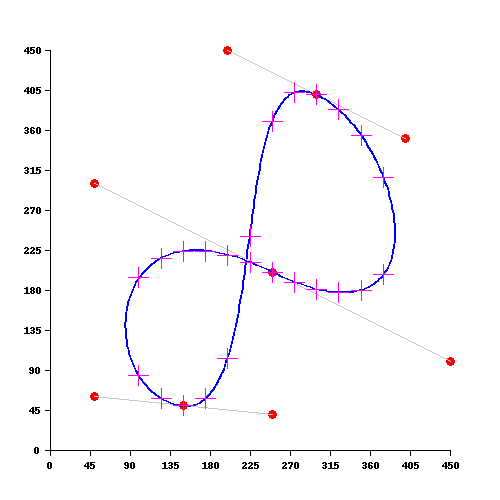
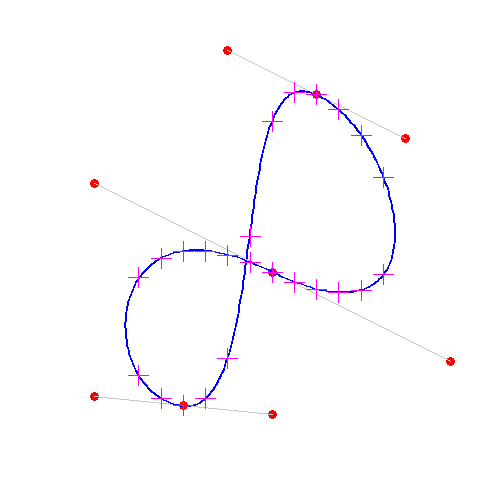
Add tests

diff --git a/tests/test_cubic_bezier.py b/tests/test_cubic_bezier.py
@@ -12,6 +12,7 @@ def draw_composite_cubic_bezier_curve(
     composite: CompositeCubicBezier,
     name: str,
     resolution: int,
+    axis: bool = False,
 ) -> None:
     margin = 50
     width = 500
@@ -34,6 +35,7 @@ def draw_composite_cubic_bezier_curve(
         composite.draw(
             draw,
             region,
+            axis=axis,
             count=count,
             estimate_y=range(floor(composite.min.x), ceil(composite.max.x) + 1, 25),
             resolution=resolution,
@@ -120,6 +122,7 @@ def test_draw(cubic_bezier: CubicBezier) -> None:
     figure_8.loop()
 
     draw_composite_cubic_bezier_curve(figure_8, "figure8", 100)
+    draw_composite_cubic_bezier_curve(figure_8, "figure8-axis", 100, axis=True)
 
 
 def test_draw__not_draw(cubic_bezier: CubicBezier) -> None:
@@ -127,6 +130,19 @@ def test_draw__not_draw(cubic_bezier: CubicBezier) -> None:
         cubic_bezier.draw(
             "pizza",
             Region2f(Vector2f(0, 0), Vector2f(1, 1)),
+        )
+
+    assert str(ex.value) == "image_draw is not PIL.ImageDraw"
+
+
+def test_draw_axis__not_draw() -> None:
+    with raises(TypeError) as ex:
+        CubicBezier.draw_axis(
+            "pizza",
+            Region2f(Vector2f(0, 0), Vector2f(1, 1)),
+            Region2f(Vector2f(0, 0), Vector2f(1, 1)),
+            Vector2f(0, 0),
+            Vector2f(0, 0),
         )
 
     assert str(ex.value) == "image_draw is not PIL.ImageDraw"
